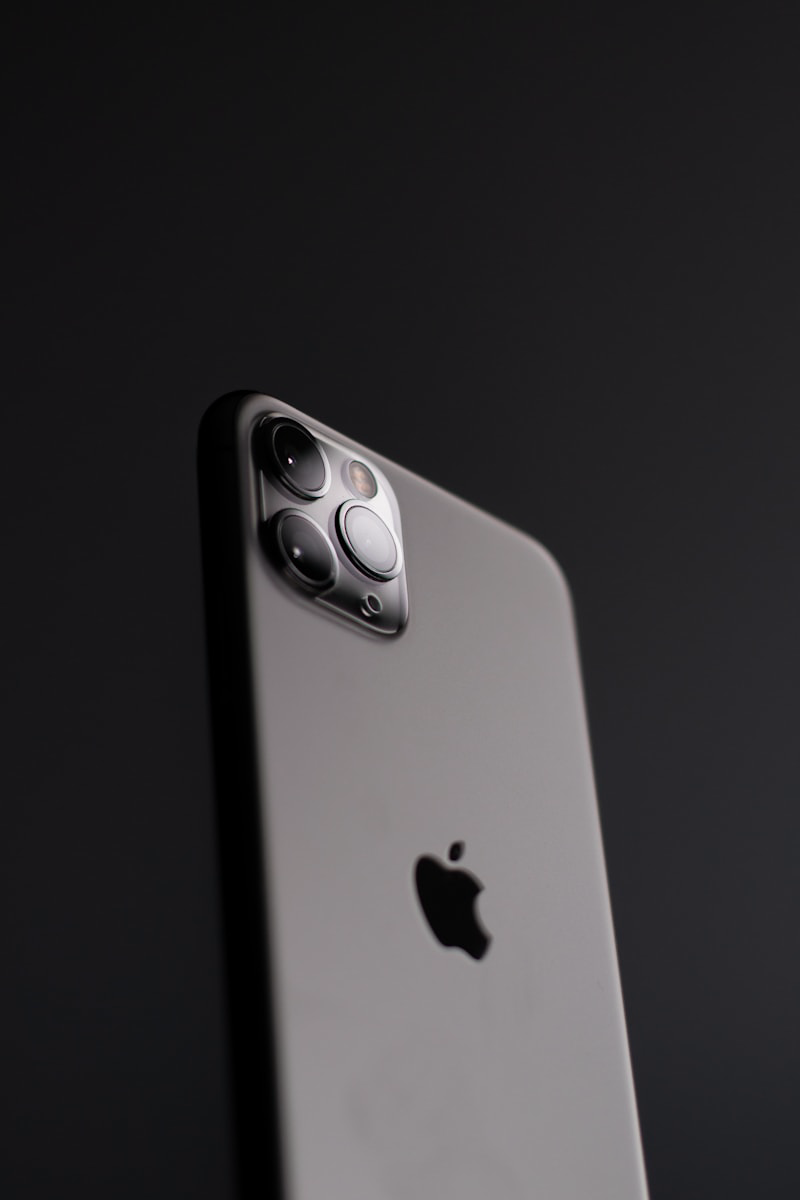
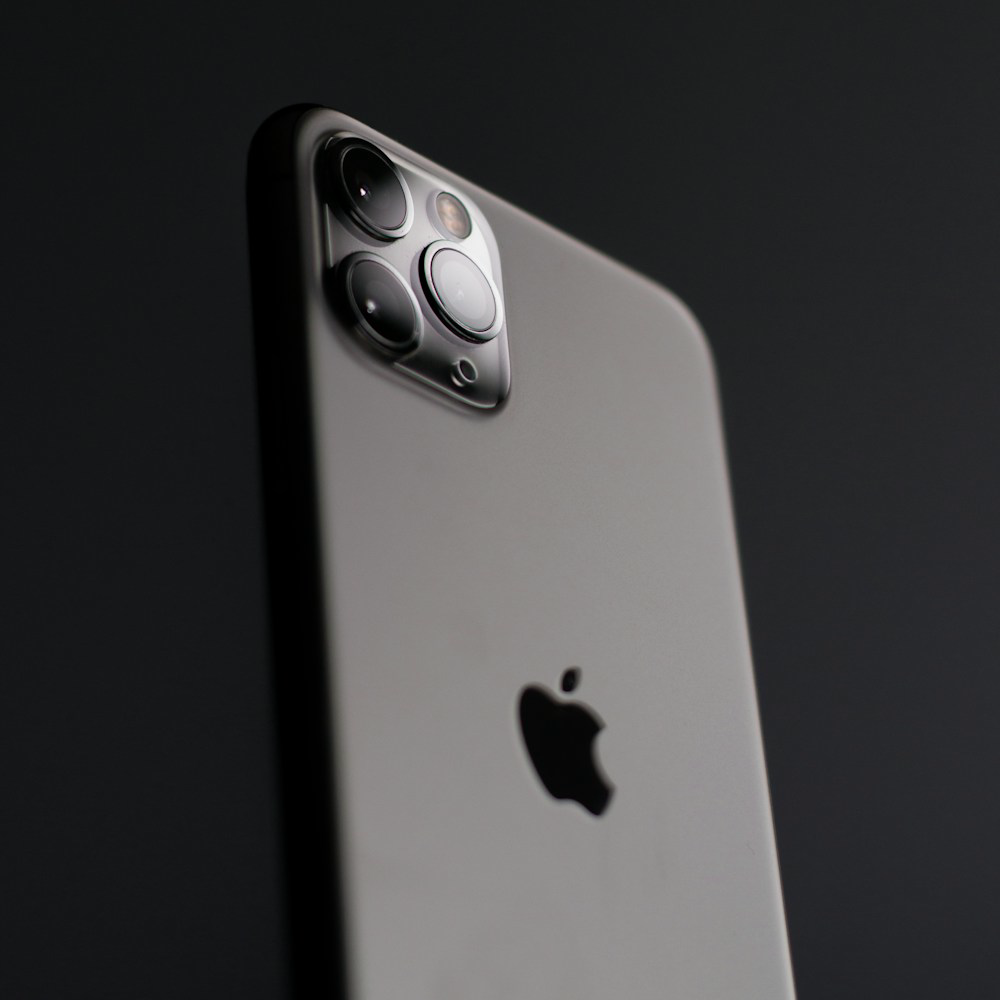
Make redesign templates visibly distinct, fix SENSE bleed, refresh product shots
- Templates A/B/C now reflow the whole store: A = 5-up vertical cards,
  B = 3-up horizontal cards (image left, big mono price), C = 2-up feature
  cards (image right, tagline) — the redesign is unmistakable instead of
  identical cards with swapped class names
- Clip the SENSE half (overflow-hidden) and make the suggestion grid
  responsive so chat content no longer bleeds into the store
- Re-download product imagery as subject-centered square crops (object-cover
  fill, no more tiny letterboxed photos) and a dedicated portrait hero phone

🤖 Generated with Codebuff

diff --git a/oracle/components/store/ProductCard.tsx b/oracle/components/store/ProductCard.tsx
@@ -42,10 +42,12 @@ export default function ProductCard({ product, template, watched, watchStatus, c
 
   const price = product.livePrice ?? product.originalPrice;
   const changed = product.livePrice != null && product.livePrice !== product.originalPrice;
+  // Only the active (watched) card carries the template's semantic selectors —
+  // the scraper must extract exactly one price, from the watched product.
+  const semantic = watched;
 
   // Clicking a card switches the store (and scraper target) to this product,
-  // then prefills the SENSE chat with a ready-to-send watch request. Chat
-  // remains the single watch-creation path.
+  // then prefills the SENSE chat with a ready-to-send watch request.
   function handleClick() {
     if (!watched) {
       fetch('/api/store/admin', {
@@ -62,20 +64,28 @@ export default function ProductCard({ product, template, watched, watchStatus, c
 
   let ring = '';
   if (watched) {
-    if (watchStatus === 'broken') ring = 'ring-1 ring-[var(--danger)]/30 animate-glitch';
-    else if (watchStatus === 'healing') ring = 'ring-1 ring-[var(--amber)]/40';
-    else if (watchStatus === 'healed') ring = 'ring-1 ring-[var(--success)]';
-    else ring = 'ring-1 ring-[var(--ios-blue)]/40';
+    if (watchStatus === 'broken') ring = 'ring-2 ring-[var(--danger)]/50 animate-glitch';
+    else if (watchStatus === 'healing') ring = 'ring-2 ring-[var(--amber)]/50';
+    else if (watchStatus === 'healed') ring = 'ring-2 ring-[var(--success)]';
+    else ring = 'ring-2 ring-[var(--ios-blue)]/50';
   }
-  if (flash) ring = `ring-1 ring-[var(--success)] animate-heal-flash`;
+  if (flash) ring = `ring-2 ring-[var(--success)] animate-heal-flash`;
 
-  const imageWrap = (
-    <div
-      className={`relative grid aspect-[1/1.08] place-items-center rounded-[14px] bg-[var(--card)] p-6 ${ring}`}
-    >
-      <ProductImage src={product.image} alt={product.name} className="max-h-full w-full" />
+  const rawPrice = `$${price}`;
+  const stock = product.inStock ? 'In Stock' : 'Out of Stock';
+
+  // ---- shared pieces -------------------------------------------------------
+
+  const imageTile = (tileClass: string, imgClass = '') => (
+    <div className={`relative shrink-0 overflow-hidden ${tileClass} ${ring}`}>
+      <ProductImage
+        src={product.image}
+        alt={product.name}
+        objectFit="cover"
+        className={`h-full w-full ${imgClass}`}
+      />
       {product.inStock === false && (
-        <span className="absolute inset-0 grid place-items-center rounded-[14px] bg-white/50">
+        <span className="absolute inset-0 grid place-items-center rounded-2xl bg-white/50">
           <span className="rounded-full border border-[var(--line)] bg-white/90 px-2.5 py-1 text-[12px] font-medium text-[var(--gray-1)]">
             Currently unavailable
           </span>
@@ -97,22 +107,6 @@ export default function ProductCard({ product, template, watched, watchStatus, c
     </div>
   );
 
-  // Non-watched card: plain markup, no semantic selectors (the scraper must
-  // only ever hit the active product's price).
-  if (!watched) {
-    return (
-      <div className={`${className ?? ''} cursor-pointer`} onClick={handleClick}>
-        {imageWrap}
-        <h3 className="mt-2.5 text-[13.5px] font-semibold leading-tight">{product.name}</h3>
-        <div className="mt-0.5 text-[12.5px] text-[var(--gray-1)]">${product.originalPrice}</div>
-        {swatches}
-      </div>
-    );
-  }
-
-  const rawPrice = `$${price}`;
-  const stock = product.inStock ? 'In Stock' : 'Out of Stock';
-
   const priceLine = (priceEl: React.ReactNode) => (
     <div className="mt-0.5 flex items-baseline gap-1.5">
       {changed && <span className="text-[11px] font-semibold text-[var(--success)]">Now</span>}
@@ -125,7 +119,7 @@ export default function ProductCard({ product, template, watched, watchStatus, c
     </div>
   );
 
-  const caption = (
+  const caption = watched ? (
     <span
       className={`mt-0.5 block text-[10px] ${
         watchStatus === 'broken' || watchStatus === 'alerted'
@@ -139,79 +133,143 @@ export default function ProductCard({ product, template, watched, watchStatus, c
     >
       {STATUS_LABEL[watchStatus ?? 'watching'] ?? '● Watching'}
     </span>
-  );
+  ) : null;
 
-  // Template B — "Modern"
+  const nameEl = (extra = '') => {
+    const base = `text-[13.5px] font-semibold leading-tight ${extra}`.trim();
+    if (template === 'B') {
+      return semantic ? (
+        <h3 data-testid="product-name" className={base}>
+          {product.name}
+        </h3>
+      ) : (
+        <h3 className={base}>{product.name}</h3>
+      );
+    }
+    if (template === 'C') {
+      return semantic ? (
+        <h3 itemProp="name" className={base}>
+          {product.name}
+        </h3>
+      ) : (
+        <h3 className={base}>{product.name}</h3>
+      );
+    }
+    return semantic ? (
+      <h3 className={`product-title ${base}`}>{product.name}</h3>
+    ) : (
+      <h3 className={base}>{product.name}</h3>
+    );
+  };
+
+  const priceEl = (extra = '') => {
+    if (template === 'B') {
+      return semantic ? (
+        <span data-test="current-price" className={`mono text-[18px] font-semibold ${extra}`}>
+          {rawPrice}
+        </span>
+      ) : (
+        <span className={`mono text-[18px] font-semibold ${extra}`}>{rawPrice}</span>
+      );
+    }
+    if (template === 'C') {
+      return semantic ? (
+        <span className={`display-price mono text-[18px] font-semibold ${extra}`}>{rawPrice}</span>
+      ) : (
+        <span className={`mono text-[18px] font-semibold ${extra}`}>{rawPrice}</span>
+      );
+    }
+    return semantic ? (
+      <span className={`price text-[12.5px] text-[var(--gray-1)] ${extra}`}>{rawPrice}</span>
+    ) : (
+      <span className={`text-[12.5px] text-[var(--gray-1)] ${extra}`}>{rawPrice}</span>
+    );
+  };
+
+  const stockEl = () => {
+    if (!semantic) return null;
+    if (template === 'A') return <span className="stock-status sr-only">{stock}</span>;
+    return <span className="availability-badge sr-only">{stock}</span>;
+  };
+
+  // ---- Template B — "Modern" (horizontal, image left, big mono price) ------
   if (template === 'B') {
-    return (
-      <div className={`${className ?? ''} cursor-pointer`} onClick={handleClick}>
-        <div className="pricing-section">
-          {imageWrap}
-          <h3 data-testid="product-name" className="mt-2.5 text-[13.5px] font-semibold leading-tight">
-            {product.name}
-          </h3>
-          {priceLine(
-            <span data-test="current-price" className="text-[12.5px] text-[var(--gray-1)]">
-              {rawPrice}
-            </span>,
-          )}
-          <span className="availability-badge sr-only">{stock}</span>
+    const inner = (
+      <div className="flex items-center gap-3 rounded-2xl border border-[var(--line)] bg-white p-3 shadow-sm">
+        {imageTile('aspect-square w-1/2 rounded-xl bg-[var(--card)]')}
+        <div className="min-w-0 flex-1">
+          {nameEl()}
+          {priceLine(priceEl())}
+          {stockEl()}
           {caption}
           {swatches}
         </div>
       </div>
     );
-  }
-
-  // Template C — "Schema"
-  if (template === 'C') {
     return (
       <div className={`${className ?? ''} cursor-pointer`} onClick={handleClick}>
-        {imageWrap}
-        <h3 itemProp="name" className="mt-2.5 text-[13.5px] font-semibold leading-tight">
-          {product.name}
-        </h3>
-        {priceLine(
-          <span className="display-price text-[12.5px] text-[var(--gray-1)]">{rawPrice}</span>,
-        )}
-        <span className="availability-badge sr-only">{stock}</span>
-        {caption}
-        {swatches}
-        <script
-          type="application/ld+json"
-          dangerouslySetInnerHTML={{
-            __html: JSON.stringify({
-              '@context': 'https://schema.org',
-              '@type': 'Product',
-              name: product.name,
-              offers: {
-                '@type': 'Offer',
-                price: String(price),
-                priceCurrency: 'USD',
-                availability: product.inStock ? 'InStock' : 'OutOfStock',
-              },
-            }),
-          }}
-        />
+        {semantic ? <div className="pricing-section">{inner}</div> : inner}
       </div>
     );
   }
 
-  // Template A — "Classic"
-  return (
-    <div className={`${className ?? ''} cursor-pointer`} onClick={handleClick}>
-      <div className="product-container">
-        {imageWrap}
-        <h3 className="product-title mt-2.5 text-[13.5px] font-semibold leading-tight">
-          {product.name}
-        </h3>
-        {priceLine(
-          <span className="price text-[12.5px] text-[var(--gray-1)]">{rawPrice}</span>,
+  // ---- Template C — "Schema" (feature card, image right, tagline) ----------
+  if (template === 'C') {
+    const inner = (
+      <div className="flex items-center gap-3 rounded-2xl bg-[var(--card)] p-3">
+        <div className="min-w-0 flex-1">
+          {nameEl()}
+          <p className="mt-0.5 text-[11px] leading-snug text-[var(--gray-1)]">{product.tagline}</p>
+          {priceLine(priceEl())}
+          {stockEl()}
+          {caption}
+          {swatches}
+        </div>
+        {imageTile('aspect-square w-1/2 rounded-xl bg-white')}
+        {semantic && (
+          <script
+            type="application/ld+json"
+            dangerouslySetInnerHTML={{
+              __html: JSON.stringify({
+                '@context': 'https://schema.org',
+                '@type': 'Product',
+                name: product.name,
+                offers: {
+                  '@type': 'Offer',
+                  price: String(price),
+                  priceCurrency: 'USD',
+                  availability: product.inStock ? 'InStock' : 'OutOfStock',
+                },
+              }),
+            }}
+          />
         )}
-        <span className="stock-status sr-only">{stock}</span>
-        {caption}
-        {swatches}
       </div>
+    );
+    return (
+      <div className={`${className ?? ''} cursor-pointer`} onClick={handleClick}>
+        {inner}
+      </div>
+    );
+  }
+
+  // ---- Template A — "Classic" (vertical, image top) ------------------------
+  const inner = (
+    <>
+      {imageTile(
+        'aspect-square rounded-2xl bg-[var(--card)]',
+        'transition-transform duration-300 group-hover:scale-[1.03]',
+      )}
+      {nameEl('mt-2.5')}
+      {priceLine(priceEl())}
+      {stockEl()}
+      {caption}
+      {swatches}
+    </>
+  );
+  return (
+    <div className={`${className ?? ''} group cursor-pointer`} onClick={handleClick}>
+      {semantic ? <div className="product-container">{inner}</div> : inner}
     </div>
   );
 }

diff --git a/oracle/components/store/ProductGrid.tsx b/oracle/components/store/ProductGrid.tsx
@@ -9,6 +9,15 @@ interface Props {
 }
 
 export default function ProductGrid({ products, template, watchedProductId, watchStatus }: Props) {
+  // Each template reflows the grid: A = dense 5-up vertical, B = 3-up
+  // horizontal, C = 2-up feature cards. The layout change is the "redesign".
+  const cols =
+    template === 'C'
+      ? 'grid-cols-2'
+      : template === 'B'
+        ? 'grid-cols-3'
+        : 'grid-cols-5 max-[1400px]:grid-cols-4';
+
   return (
     <div>
       <div className="mt-7 flex items-baseline justify-between">
@@ -17,7 +26,7 @@ export default function ProductGrid({ products, template, watchedProductId, watc
           See All
         </a>
       </div>
-      <div className="mt-3 grid grid-cols-5 gap-4 max-[1400px]:grid-cols-4">
+      <div className={`mt-3 grid gap-4 ${cols}`}>
         {products.map((p, i) => (
           <ProductCard
             key={p.id}
@@ -25,7 +34,7 @@ export default function ProductGrid({ products, template, watchedProductId, watc
             template={template}
             watched={p.id === watchedProductId}
             watchStatus={watchStatus}
-            className={i === 4 ? 'max-[1400px]:hidden' : ''}
+            className={template === 'A' && i === 4 ? 'max-[1400px]:hidden' : ''}
           />
         ))}
       </div>

diff --git a/oracle/components/store/ProductImage.tsx b/oracle/components/store/ProductImage.tsx
@@ -7,10 +7,12 @@ export default function ProductImage({
   src,
   alt,
   className,
+  objectFit = 'contain',
 }: {
   src: string;
   alt: string;
   className?: string;
+  objectFit?: 'contain' | 'cover';
 }) {
   const [err, setErr] = useState(false);
 
@@ -26,7 +28,7 @@ export default function ProductImage({
     <img
       src={src}
       alt={alt}
-      className={`object-contain ${className ?? ''}`}
+      className={`${objectFit === 'cover' ? 'object-cover' : 'object-contain'} ${className ?? ''}`}
       onError={() => setErr(true)}
     />
   );

diff --git a/oracle/app/page.tsx b/oracle/app/page.tsx
@@ -14,7 +14,7 @@ export default function Home() {
       <SenseUiProvider>
         <main className="flex h-screen w-screen overflow-hidden bg-white">
           {/* LEFT — SENSE (46%) */}
-          <section className="relative flex w-[46%] min-w-[580px] shrink-0">
+          <section className="relative flex w-[46%] min-w-[580px] shrink-0 overflow-hidden">
             <Sidebar />
             <ChatPanel />
             <ScarLogPanel />

diff --git a/oracle/components/sense/ChatPanel.tsx b/oracle/components/sense/ChatPanel.tsx
@@ -293,7 +293,7 @@ export default function ChatPanel() {
           </h1>
           <p className="mt-2 text-[15px] text-[var(--gray-1)]">What should I watch for you?</p>
 
-          <div className="mt-8 grid w-[470px] grid-cols-2 gap-3">
+          <div className="mt-8 grid w-full max-w-[470px] grid-cols-2 gap-3">
             {SUGGESTIONS.map((s) => (
               <button
                 key={s.title}

diff --git a/oracle/lib/store-shared.ts b/oracle/lib/store-shared.ts
@@ -27,7 +27,7 @@ export const PRODUCT_IMAGES = {
 // from the same local product shots — deliberately SEPARATE and well-organized,
 // not a mashed-together collage.
 export const HERO_IMAGES = {
-  phone: "/products/iphone-17-pro.png",
+  phone: "/products/hero-phone.png",
   buds: "/products/airpods-pro.png",
   watch: "/products/watch-s9.png",
 };
